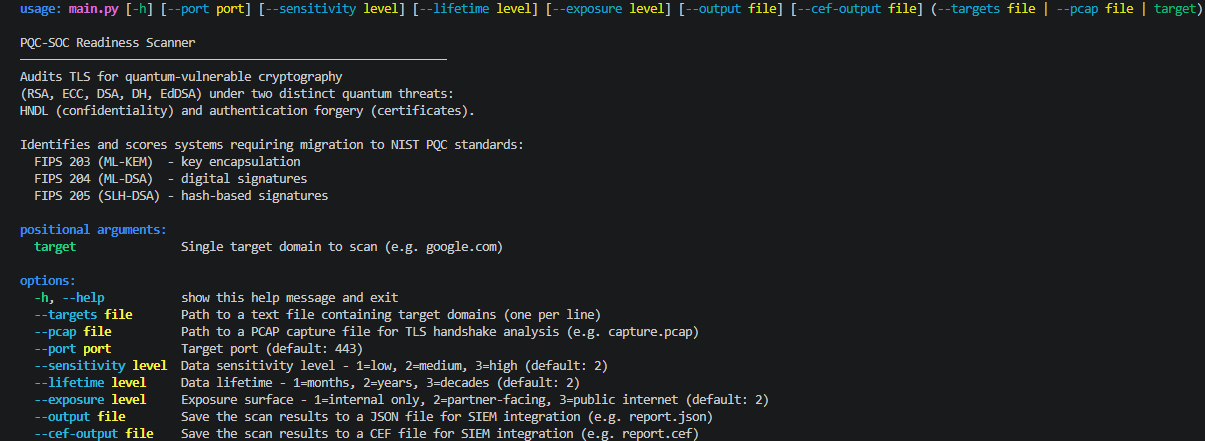
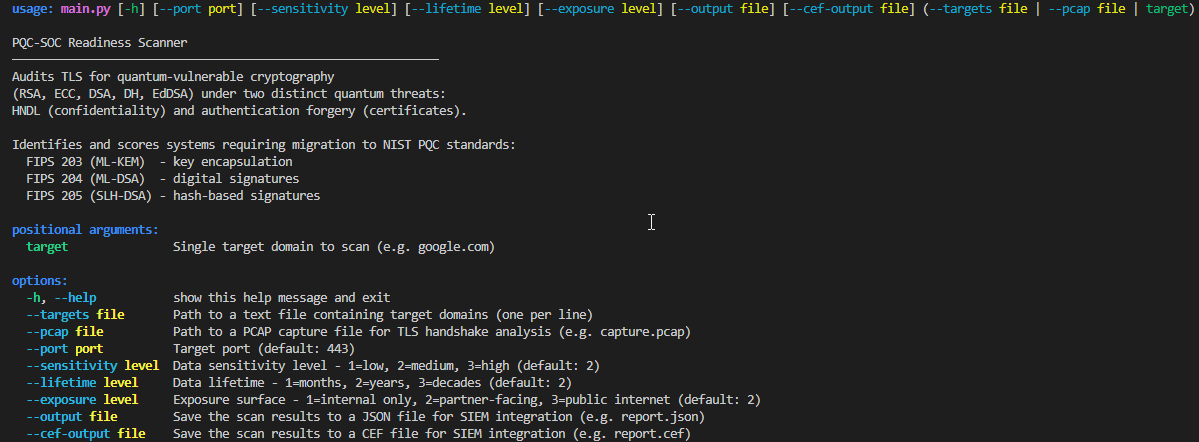
docs: replace demo gif with mp4, update help screenshot

diff --git a/README.md b/README.md
@@ -16,7 +16,7 @@ Every output traces back to a specific NIST standard, a documented threat, and a
  
 ## Demo
  
-![PQC-SOC Scanner Demo](assets/demo.gif)
+<video src="assets/demo.mp4" controls width="100%"></video>
  
 > *Live certificate scan demo. PCAP output is shown in the [Sample Output](#sample-output) section below.*
  